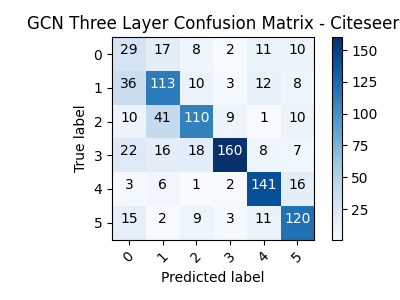
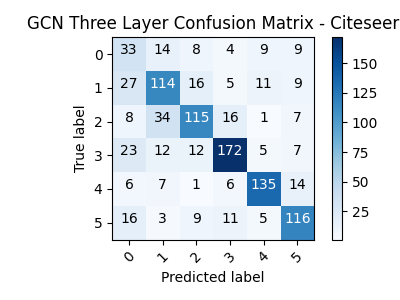
Added new constant variables to GAT/GCN_training.py and main.py to make adjusting hyperparameters easier and updated reports and figures with new GCN hyperparameters

diff --git a/main.py b/main.py
@@ -3,6 +3,9 @@ import training.GAT_training as GAT_training
 import training.cora as cora
 import training.citeseer as citeseer
 
+GCN_EPOCHS = 300
+GAT_EPOCHS = 200
+
 def main():
 
     # Load the Cora dataset
@@ -17,24 +20,24 @@ def main():
     match model_choice:
         case '1':
             print("Training GCN Two Layer on Cora dataset...")
-            GCN_training.GCN_two_layer_training(cora_data, num_classes=cora_num_classes, epochs=200, dataset_name='Cora')
+            GCN_training.GCN_two_layer_training(cora_data, num_classes=cora_num_classes, epochs=GCN_EPOCHS, dataset_name='Cora')
             print("Training GCN Two Layer on Citeseer dataset...")
-            GCN_training.GCN_two_layer_training(citeseer_data, num_classes=citeseer_num_classes, epochs=200, dataset_name='Citeseer')
+            GCN_training.GCN_two_layer_training(citeseer_data, num_classes=citeseer_num_classes, epochs=GCN_EPOCHS, dataset_name='Citeseer')
         case '2':
             print("Training GCN Three Layer on Cora dataset...")
-            GCN_training.GCN_three_layer_training(cora_data, num_classes=cora_num_classes, epochs=200, dataset_name='Cora')
+            GCN_training.GCN_three_layer_training(cora_data, num_classes=cora_num_classes, epochs=GCN_EPOCHS, dataset_name='Cora')
             print("Training GCN Three Layer on Citeseer dataset...")
-            GCN_training.GCN_three_layer_training(citeseer_data, num_classes=citeseer_num_classes, epochs=200, dataset_name='Citeseer')
+            GCN_training.GCN_three_layer_training(citeseer_data, num_classes=citeseer_num_classes, epochs=GCN_EPOCHS, dataset_name='Citeseer')
         case '3':
             print("Training GAT Two Layer on Cora dataset...")
-            GAT_training.GAT_two_layer_training(cora_data, num_classes=cora_num_classes, epochs=200, dataset_name='Cora')
+            GAT_training.GAT_two_layer_training(cora_data, num_classes=cora_num_classes, epochs=GAT_EPOCHS, dataset_name='Cora')
             print("Training GAT Two Layer on Citeseer dataset...")
-            GAT_training.GAT_two_layer_training(citeseer_data, num_classes=citeseer_num_classes, epochs=200, dataset_name='Citeseer')
+            GAT_training.GAT_two_layer_training(citeseer_data, num_classes=citeseer_num_classes, epochs=GAT_EPOCHS, dataset_name='Citeseer')
         case '4':
             print("Training GAT Three Layer on Cora dataset...")
-            GAT_training.GAT_three_layer_training(cora_data, num_classes=cora_num_classes, epochs=200, dataset_name='Cora')
+            GAT_training.GAT_three_layer_training(cora_data, num_classes=cora_num_classes, epochs=GAT_EPOCHS, dataset_name='Cora')
             print("Training GAT Three Layer on Citeseer dataset...")
-            GAT_training.GAT_three_layer_training(citeseer_data, num_classes=citeseer_num_classes, epochs=200, dataset_name='Citeseer')
+            GAT_training.GAT_three_layer_training(citeseer_data, num_classes=citeseer_num_classes, epochs=GAT_EPOCHS, dataset_name='Citeseer')
         case _:
             print("Invalid choice. Please enter a number between 1 and 4.")
 

diff --git a/training/GCN_training.py b/training/GCN_training.py
@@ -3,14 +3,18 @@ from utils import plot_acc, test_model
 import utils.plot_loss as plot_loss
 import torch
 
+HIDDEN_UNITS = 64
+LEARNING_RATE = 0.005
+
 def GCN_two_layer_training(data, num_classes, epochs=200, dataset_name=''):
     
     # instantiate the model
-    # Current implementation uses 64 hidden channels, but this can be adjusted as needed.
-    model = GCN.GCN_Two_Layer(data.num_features, 64, num_classes)
+    
+    # Current implementation uses HIDDEN_UNITS hidden channels, but this can be adjusted as needed.
+    model = GCN.GCN_Two_Layer(data.num_features, HIDDEN_UNITS, num_classes)
 
     # use an optimizer (e.g., Adam) to update the model parameters during training.
-    optimizer = torch.optim.Adam(model.parameters(), lr=0.01, weight_decay=5e-4)
+    optimizer = torch.optim.Adam(model.parameters(), lr=LEARNING_RATE, weight_decay=5e-4)
 
     model.train() # Set the model to training mode.
 
@@ -56,11 +60,11 @@ def GCN_two_layer_training(data, num_classes, epochs=200, dataset_name=''):
 
 def GCN_three_layer_training(data, num_classes, epochs=200, dataset_name=''):
     # instantiate the model
-    # Current implementation uses 64 hidden channels for the first two layers, and the final layer outputs the number of classes.
-    model = GCN.GCN_Three_Layer(data.num_features, 64, num_classes)
+    # Current implementation uses HIDDEN_UNITS hidden channels for the first two layers, and the final layer outputs the number of classes.
+    model = GCN.GCN_Three_Layer(data.num_features, HIDDEN_UNITS, num_classes)
 
     # use an optimizer (e.g., Adam) to update the model parameters during training.
-    optimizer = torch.optim.Adam(model.parameters(), lr=0.01, weight_decay=5e-4)
+    optimizer = torch.optim.Adam(model.parameters(), lr=LEARNING_RATE, weight_decay=5e-4)
 
     model.train() # Set the model to training mode.
 

diff --git a/training/GAT_training.py b/training/GAT_training.py
@@ -3,14 +3,17 @@ from utils import plot_acc, test_model
 import utils.plot_loss as plot_loss
 import torch
 
+HIDDEN_UNITS = 64
+LEARNING_RATE = 0.01
+
 def GAT_two_layer_training(data, num_classes, epochs=200, dataset_name=''):
     
     # instantiate the model
-    # Current implementation uses 64 hidden channels, but this can be adjusted as needed.
-    model = GAT.GAT_Two_Layer(data.num_features, 64, num_classes)
+    # Current implementation uses HIDDEN_UNITS hidden channels, but this can be adjusted as needed.
+    model = GAT.GAT_Two_Layer(data.num_features, HIDDEN_UNITS, num_classes)
 
     # use an optimizer (e.g., Adam) to update the model parameters during training.
-    optimizer = torch.optim.Adam(model.parameters(), lr=0.01, weight_decay=5e-4)
+    optimizer = torch.optim.Adam(model.parameters(), lr=LEARNING_RATE, weight_decay=5e-4)
 
     model.train() # Set the model to training mode.
 
@@ -56,11 +59,11 @@ def GAT_two_layer_training(data, num_classes, epochs=200, dataset_name=''):
 
 def GAT_three_layer_training(data, num_classes, epochs=200, dataset_name=''):
     # instantiate the model
-    # Current implementation uses 64 hidden channels for the first two layers, and the final layer outputs the number of classes.
-    model = GAT.GAT_Three_Layer(data.num_features, 64, num_classes)
+    # Current implementation uses HIDDEN_UNITS hidden channels for the first two layers, and the final layer outputs the number of classes.
+    model = GAT.GAT_Three_Layer(data.num_features, HIDDEN_UNITS, num_classes)
 
     # use an optimizer (e.g., Adam) to update the model parameters during training.
-    optimizer = torch.optim.Adam(model.parameters(), lr=0.01, weight_decay=5e-4)
+    optimizer = torch.optim.Adam(model.parameters(), lr=LEARNING_RATE, weight_decay=5e-4)
 
     model.train() # Set the model to training mode.
 
